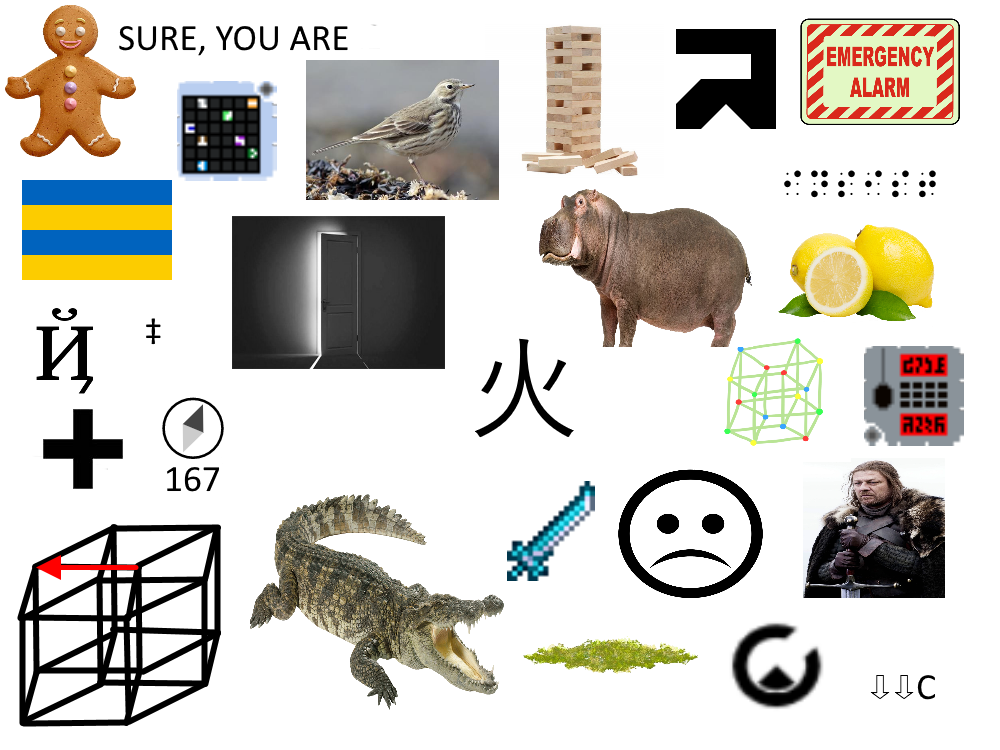
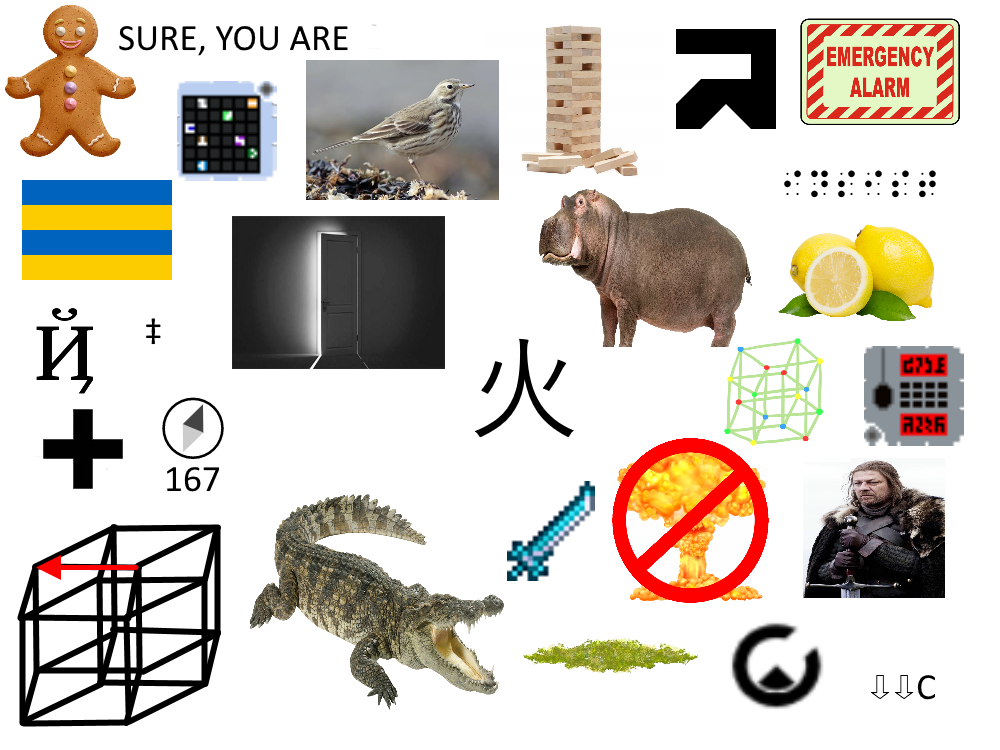
Fix “Weird Wall” puzzle

Changed region(s): [[0.589, 0.5827, 0.775, 0.828]]

diff --git a/puzzles/2020-CloudGaming827-TasThing/Weird Wall solution.html b/puzzles/2020-CloudGaming827-TasThing/Weird Wall solution.html
@@ -97,7 +97,7 @@
 			</tr>
 			<tr>
 				<td>Words (<a href='https://ktane.timwi.de/HTML/Encrypted%20Morse.html'>Encrypted Morse</a>)</td>
-				<td>Cheesecake, <span class='ooo'>Detonate</span>, Sadface, Sea Shells, Souvenir</td>
+				<td>Cheesecake, <span class='ooo'>Detonate</span>, No Explode, Sea Shells, Souvenir</td>
 				<td>are responses.</td>
 				<td>Eggplant<br>(1 0 1)</td>
 			</tr>
